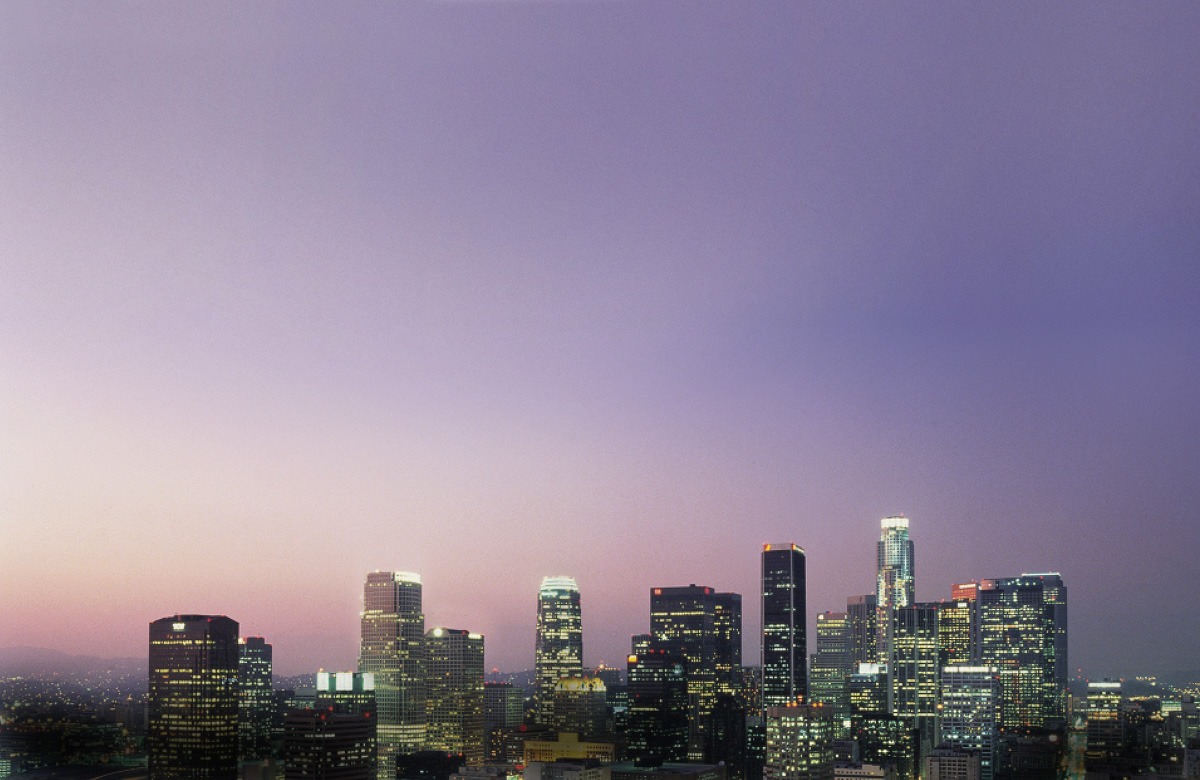
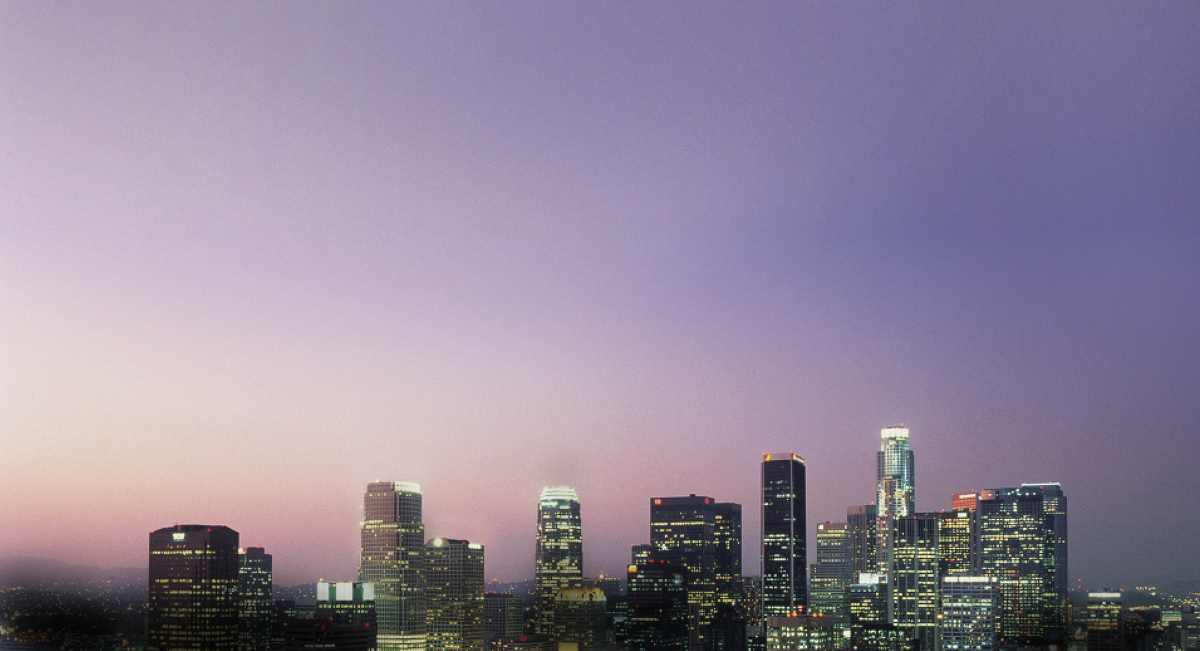
Ajustes
- Optimizacion de imagenes
- Ajuste de elementos a 1200x650 pixeles

Changed region(s): [[0.0, 0.6452, 1.0, 1.0], [0.6475, 0.7373, 0.6783, 0.768]]

diff --git a/teaser-ascensor/sass/_mobile-first.scss b/teaser-ascensor/sass/_mobile-first.scss
@@ -170,7 +170,7 @@ html, body {
 }
 
 .home .content {
-   padding-top: 50px;
+   padding-top: 55px;
    text-align: center;
    width: 100%;
    -webkit-transition: all .5s ease;
@@ -186,7 +186,7 @@ html, body {
    h1 {
       background: url('../img/eng/logo_metropolis.png') no-repeat scroll 0 0 transparent;
       display: inline-block;
-      margin: 0 0 50px 0;
+      margin: 0 0 27px 0;
       text-indent: -9999px;
       width: 149px;
       height: 74px;
@@ -209,9 +209,9 @@ html, body {
          height: 42px;
       }
 
-      &:before { margin-bottom: 15px; }
+      &:before { margin-bottom: 20px; }
 
-      &:after { margin-top: 15px; }
+      &:after { margin-top: 25px; }
    }
 
    .main-content {
@@ -224,6 +224,11 @@ html, body {
          font-size: 12px;
          letter-spacing: 2px;
          text-transform: uppercase;
+      }
+
+      p { 
+         font-size: 14px;
+         letter-spacing: 3px;
       }
 
       .button-effect {
@@ -608,6 +613,7 @@ html, body {
 
    // ## home ##
    .home .content {
+      padding-top: 35px;
 
       h1 {
          background-image: url('../img/chn/logo_metropolis.png');
@@ -618,6 +624,7 @@ html, body {
 
          p {
             font-size: 22px;
+            margin-bottom: 15px;
          }
 
          a {

diff --git a/teaser-ascensor/sass/_metropolis.scss b/teaser-ascensor/sass/_metropolis.scss
@@ -3,17 +3,13 @@
 
 @media only screen and (min-width: 640px) { @import 'mobile-640'; }
 
-@media only screen and (min-height: 768px) { @import 'mobile-768'; }
+@media only screen and (min-height: 650px) { @import 'mobile-650'; }
 
 /* Used to alter styles for screens at least 768px wide. This is where the grid changes. */
 @media only screen and (min-width: 768px) { @import 'medium'; }
 
-@media only screen and (min-height: 1024px) { @import 'mobile-1024'; }
-
-@media only screen and (min-height: 1280px) { @import 'mobile-1280'; }
-
 /* Used to alter styles for screens at least 1280px wide. */
-@media only screen and (min-width: 1280px) { @import 'large'; }
+@media only screen and (min-width: 1280px) {}
 
 /* Used to alter styles for screens at least 1440px wide. */
 @media only screen and (min-width: 1440px) {}

diff --git a/teaser-ascensor/sass/_medium.scss b/teaser-ascensor/sass/_medium.scss
@@ -18,15 +18,18 @@
 }
 
 .home .content {
-   padding-top: 5%; 
+
+   .header {
+      margin-bottom: 25px;
+   }
 
    h2 {
-      font-size: 50px;
-      line-height: 54px;
+      font-size: 48px;
+      line-height: 50px;
 
-      &:before { margin-bottom: 25px; }
+      // &:before { margin-bottom: 25px; }
 
-      &:after { margin-top: 25px; }
+      // &:after { margin-top: 25px; }
    }
 
    .main-content {

diff --git a/teaser-ascensor/sass/_mobile-650.scss b/teaser-ascensor/sass/_mobile-650.scss
@@ -1,6 +1,5 @@
 // ## home ##
 .home .content {
-   padding-top: 7.5% !important; 
 
    .footer {
       width: 100%;

diff --git a/teaser-ascensor/index.php b/teaser-ascensor/index.php
@@ -63,7 +63,7 @@
                <h2>Coming soon to<br />Downtown Los Angeles</h2>
             </header>
             <div class="main-content">
-               <p>Please select one:</p>
+               <p>Please select one :</p>
                <span class="button-effect"><a class="trigger-purchaser" href="purchaser.php" data-hover="Prospective purchaser"><span>Prospective purchaser</span></a></span>
                <span class="button-effect"><a class="trigger-broker" href="brokers.php" data-hover="Broker"><span>Broker</span></a></span>
             </div>
